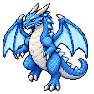
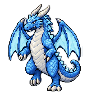
Revise frost dragon walk to seven frames with alternating leg poses

diff --git a/design/enemies/dragon_frost/PROMPT.md b/design/enemies/dragon_frost/PROMPT.md
@@ -1,1 +1,1 @@
-Edit target: reference image 1 is the EXACT existing blue frost dragon game sprite (94x94 logical pixels). Create ONE transparent walking-cycle SPRITE SHEET containing exactly FIVE full-body frames in a SINGLE HORIZONTAL ROW with FIVE EQUAL-WIDTH cells, no extra rows. Sheet represents logical size 470x94 (5 cells each94x94), may render enlarged in exactly 5:1 aspect ratio. Use the supplied dragon design, same face, ivory horns, protruding fangs, blue scales, pearl belly, pale cyan bat wings, curved tail. Same three-quarter front view facing slightly left in all five frames, upright BIPED on exactly two hind legs, two short arms. Keep scale, silhouette, head, wing shapes and camera EXACTLY consistent across all five cells; stationary walk in place, NO horizontal drifting. Each frame head/torso same center and maximum size so that whole dragon fits 94x94 with transparent margins. Pixel art, crisp square clusters, no redesign, no smoothing, no extra details. Animate ONLY leg stepping and very small supporting arm swing and tail movement. Wings stay spread in the same pose, no flapping. A natural slow five-frame circular walking loop with phases evenly distributed across a full cycle: frame1 left foot forward/right back; frame2 left planted/right foot lifting and passing; frame3 right foot forward/left back; frame4 right planted/left foot lifting and passing; frame5 left foot approaching forward contact/right foot moving back, smoothly returning to frame1. Feet must not merge, both legs readable. No repeated endpoint frame. Minimal body bob at most one logical pixel. Frame5->frame1 must be as smooth as other transitions. All five sprites equally sized and aligned on consistent base line and fixed torso anchor, not separate character variations. Each equal-width cell fully contains wing tips tail horns feet, at least2 logical px padding around each sprite. NO grid lines, NO frame numbers, NO text, NO separators, NO ground/shadow, NO checkerboard background. Genuinely transparent background. Output is ONE sprite sheet asset, exactly5 frames one row.
+Edit target Image1: exact blue frost dragon sprite, 94x94 logical pixels. Make ONE transparent sprite-sheet asset with exactly SEVEN walking frames in one horizontal row of seven equally spaced cells. Keep original dragon identity, upright TWO-LEGGED stance, two arms, ivory horns, TWO protruding ivory fangs, blue scales, white belly, cyan bat wings, curling tail, same three-quarter view. Crisp pixel art, no redesign. IMPORTANT: the previous attempt only moved ONE leg. This version MUST show BOTH LEGS alternately lifting, swinging and planting. Screen LEFT leg and screen RIGHT leg each have their own visible lifted-foot poses. Define these by image side, NOT anatomical labels. Both feet stay visibly separated and never overlap. Upper body, head, wings and scale MUST stay identical and fixed in position in all 7 cells; animate the two legs below hip joints and very slight arm swing only. Stationary walk in place, NO lateral movement or flipping. Clear positive toe clearance, lifted foot about5 logical pixels above floor, planted supporting foot on consistent baseline. Seven phases, all required: CELL1 screen-left foot forward planted, screen-right foot back with heel starting to lift. CELL2 SCREEN-RIGHT knee bent, SCREEN-RIGHT FOOT LIFTED OFF FLOOR underneath body, screen-left foot still firmly planted. CELL3 SCREEN-RIGHT FOOT SWINGING FORWARD ABOVE FLOOR, screen-left leg straight supporting body. CELL4 SCREEN-RIGHT FOOT FORWARD PLANTED ON FLOOR, screen-left foot back with heel rising. CELL5 SCREEN-LEFT knee bent, SCREEN-LEFT FOOT LIFTED OFF FLOOR underneath body, screen-right foot still firmly planted. CELL6 SCREEN-LEFT FOOT SWINGING FORWARD ABOVE FLOOR, screen-right leg straight supporting body. CELL7 SCREEN-LEFT foot descending toward forward contact, screen-right heel lifting for next cycle. Then seamlessly return to cell1. In particular cell2 and cell3 have RIGHT FOOT lifted, while cell5 and cell6 have LEFT FOOT lifted. Do NOT produce the same leg lifting in both halves of the cycle. Clearly readable different poses, natural hip-knee-ankle bends, no stretch artifacts. All seven dragons same size, same vertical head position, same centerline, fully visible wing tips horns feet tail within own equally sized cell with transparent separation/padding. No duplicated endpoint, no missing frames, no extra dragons. Reference logical sheet658x94, can render enlarged. NO TEXT, NO labels, NO lines, NO backgrounds, NO floor shadow, NO checkerboard, NO visible grid. Genuine alpha transparency. Output one sprite sheet containing seven frames.

diff --git a/design/enemies/dragon_frost/README.md b/design/enemies/dragon_frost/README.md
@@ -1,9 +1,9 @@
 # 青いドラゴンの歩行画像
 
-元画像：design/enemies/dragon/candidates/dragon_03_frost.png。内蔵image_genで5コマの歩行シートを生成し、頭の位置と縮小率をそろえて94×94pxの透明PNGに分割しています。
+元画像：design/enemies/dragon/candidates/dragon_03_frost.png。内蔵image_genで7コマの歩行シートを生成し、頭の位置と縮小率をそろえて94×94pxの透明PNGに分割しています。
 
-move/dragon_frost_1.png～dragon_frost_5.pngを1→2→3→4→5→1の順に繰り返します。確認GIFは各コマ0.16秒、1周0.8秒です。
+move/dragon_frost_1.png～dragon_frost_7.pngを1→2→3→4→5→6→7→1の順に繰り返します。確認GIFは各コマ0.14秒、1周0.98秒です。
 
 preview/walk_94.gifは原寸の透明GIF、preview/walk_3x.gifは3倍表示、preview/frames.pngは2倍表示のコマ一覧です。PNGがゲーム用の素材です。
 
-ゲームへの組み込み・マスターの変更は行っていません。採用時はenemy_keyにdragon_frostを使い、animationシートの移動frame_indexに1～5を設定して、build-animation-manifest.cmdを実行します。
+ゲームへの組み込み・マスターの変更は行っていません。採用時はenemy_keyにdragon_frostを使い、animationシートの移動frame_indexに1～7を設定して、build-animation-manifest.cmdを実行します。
